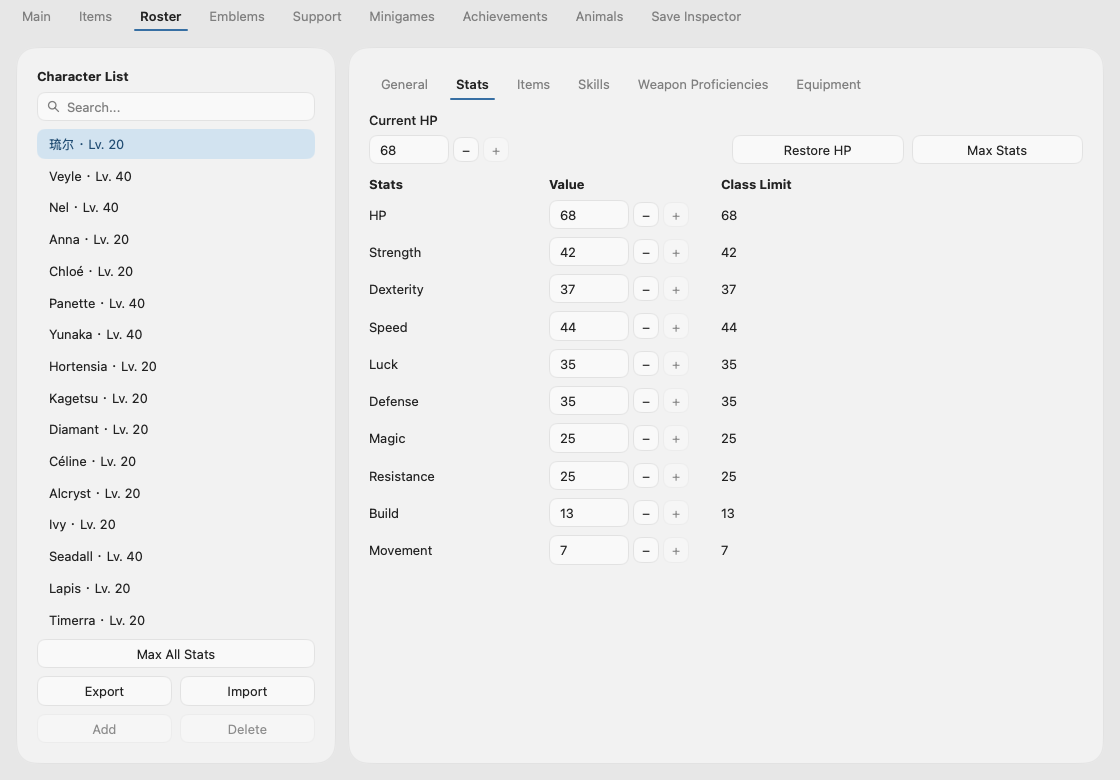
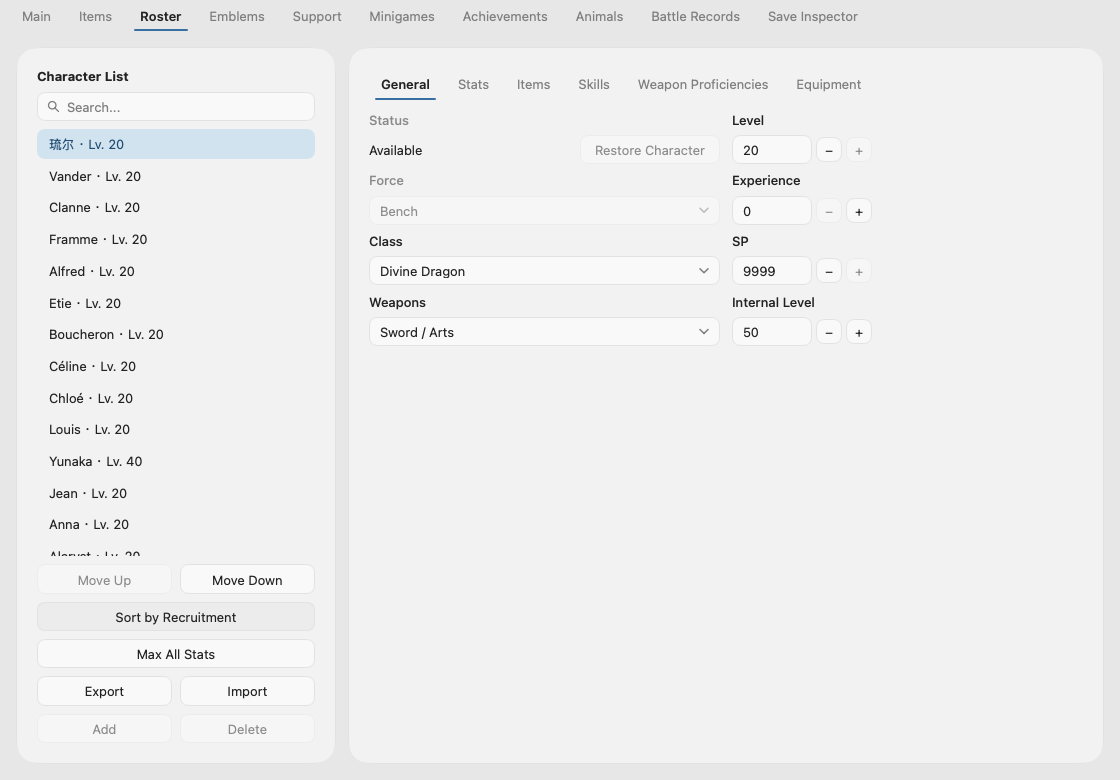
feat(gui): add roster ordering controls and preserve selection

diff --git a/internal/app/roster_order_test.go b/internal/app/roster_order_test.go
@@ -1,0 +1,181 @@
+package app
+
+import (
+	"bytes"
+	"fmt"
+	"image/png"
+	"os"
+	"path/filepath"
+	"slices"
+	"testing"
+
+	"github.com/egoist/mygo/ui"
+	"github.com/jinghaihan/fee-save-editor/internal/catalog"
+	"github.com/jinghaihan/fee-save-editor/internal/save"
+)
+
+func orderedRosterFixture(t *testing.T) *App {
+	t.Helper()
+	a := fixture(t)
+	for _, id := range []string{"PID_クラン", "PID_フラン"} {
+		s, err := a.Save.WithAddedRosterCharacter(id)
+		if err != nil {
+			t.Fatal(err)
+		}
+		a.Save = s
+	}
+	a.Page = slices.Index(pages, "Roster")
+	return a
+}
+
+func TestRosterOrderingKeepsSelectionAndFocusedEdits(t *testing.T) {
+	a := orderedRosterFixture(t)
+	original, err := os.ReadFile(a.Path)
+	if err != nil {
+		t.Fatal(err)
+	}
+	tt := ui.NewTester(a.View, 1120, 780)
+	id := a.selectedID("roster")
+	enterChapterValue(t, tt, a.T("Level"), "9")
+	if err := tt.Click(a.T("MoveDown")); err != nil {
+		t.Fatal(err)
+	}
+	current, found := a.selectedRosterCharacter()
+	if !found || current.Index != 1 || current.Values.Level != 9 || a.selectedID("roster") != id {
+		t.Fatalf("lost selection or focused edit: %+v (%s)", current, a.Status)
+	}
+	if err := tt.Click(a.T("MoveDown")); err != nil {
+		t.Fatal(err)
+	}
+	current, _ = a.selectedRosterCharacter()
+	if current.Index != 2 || a.selectedID("roster") != id {
+		t.Fatal("repeated movement switched character")
+	}
+	enterChapterValue(t, tt, a.T("SP"), "1234")
+	if err := tt.Click(a.T("SortByRecruitment")); err != nil {
+		t.Fatal(err)
+	}
+	current, _ = a.selectedRosterCharacter()
+	if current.Index != 0 || current.Values.Level != 9 || current.Values.SkillPoints != 1234 || a.selectedID("roster") != id {
+		t.Fatalf("sort lost focused input or selected character: %+v (%s)", current, a.Status)
+	}
+	// Edit again after indices changed to catch stale callbacks or drafts.
+	enterChapterValue(t, tt, a.T("SP"), "2345")
+	if err := tt.Click(a.T("Search")); err != nil {
+		t.Fatal(err)
+	}
+	current, _ = a.selectedRosterCharacter()
+	if current.Values.SkillPoints != 2345 {
+		t.Fatalf("post-sort edit failed: %+v pending=%v status=%s", current.Values, a.pendingOrder, a.Status)
+	}
+	output := filepath.Join(t.TempDir(), "edited")
+	if err := a.SaveCopy(output); err != nil {
+		t.Fatal(err)
+	}
+	s, err := save.Load(output)
+	if err != nil {
+		t.Fatal(err)
+	}
+	rows, err := s.Roster()
+	if err != nil || rows[0].PersonHash != current.PersonHash || rows[0].Values.SkillPoints != 2345 {
+		t.Fatal("saved order or character values did not reload")
+	}
+	after, err := os.ReadFile(a.Path)
+	if err != nil || !bytes.Equal(after, original) {
+		t.Fatal("GUI changed source file")
+	}
+}
+
+func TestRosterOrderingWithSearchAndRejectedEdit(t *testing.T) {
+	a := orderedRosterFixture(t)
+	tt := ui.NewTester(a.View, 1120, 780)
+	a.table("roster").Query = "Alear"
+	tt.Frame()
+	id := a.selectedID("roster")
+	if err := tt.Click(a.T("MoveDown")); err != nil {
+		t.Fatal(err)
+	}
+	current, _ := a.selectedRosterCharacter()
+	if current.Index != 1 || len(a.table("roster").Rows) != 1 || a.selectedID("roster") != id {
+		t.Fatal("search changed the move destination or selection")
+	}
+	before := a.Save.Bytes()
+	a.stage("roster/"+id+"/invalid", func(s *save.Save) (*save.Save, error) {
+		return nil, fmt.Errorf("invalid pending value")
+	})
+	moved := a.moveRosterCharacter(current.Index, 0)
+	if moved || !bytes.Equal(before, a.Save.Bytes()) || a.selectedID("roster") != id || a.pending["roster/"+id+"/invalid"] == nil {
+		t.Fatal("rejected edit changed order or discarded pending input")
+	}
+}
+
+func TestRosterOrderControlLayouts(t *testing.T) {
+	for _, loaded := range []bool{false, true} {
+		for _, dark := range []bool{false, true} {
+			for _, size := range [][2]int{{1120, 780}, {860, 600}} {
+				a := New()
+				if loaded {
+					a = orderedRosterFixture(t)
+				}
+				a.Page = slices.Index(pages, "Roster")
+				a.dark = dark
+				tt := ui.NewTesterWith(a.View, size[0], size[1], ui.TesterOptions{Dark: dark})
+				checkBounds(t, tt, size[0], size[1])
+				for _, label := range []string{"MoveUp", "MoveDown", "SortByRecruitment"} {
+					n, ok := tt.Access(a.T(label))
+					if !ok || n.Offscreen || !loaded && !n.Disabled {
+						t.Fatalf("missing, offscreen or enabled unloaded control: %s", label)
+					}
+				}
+			}
+		}
+	}
+}
+
+func TestProvidedRosterOrderScreenshots(t *testing.T) {
+	path, dir := os.Getenv("FEE_TEST_SAVE"), os.Getenv("FEE_ROSTER_SCREENSHOT_DIR")
+	if path == "" || dir == "" {
+		t.Skip("set FEE_TEST_SAVE and FEE_ROSTER_SCREENSHOT_DIR")
+	}
+	before, err := os.ReadFile(path)
+	if err != nil {
+		t.Fatal(err)
+	}
+	for _, dark := range []bool{false, true} {
+		a := New()
+		if err := a.Load(path); err != nil {
+			t.Fatal(err)
+		}
+		a.Language, a.dark, a.Page = "en", dark, slices.Index(pages, "Roster")
+		tt := ui.NewTesterWith(a.View, 1120, 780, ui.TesterOptions{Dark: dark})
+		if err := tt.Click(a.T("SortByRecruitment")); err != nil {
+			t.Fatal(err)
+		}
+		tt.Frame()
+		checkBounds(t, tt, 1120, 780)
+		rows, _ := a.Save.Roster()
+		if len(rows) != 41 || rows[1].PersonHash != catalog.Hash("PID_ヴァンドレ") || rows[8].PersonHash != catalog.Hash("PID_クロエ") {
+			t.Fatal("real save sort did not follow the configured order")
+		}
+		theme := "light"
+		if dark {
+			theme = "dark"
+		}
+		if err := os.MkdirAll(dir, 0755); err != nil {
+			t.Fatal(err)
+		}
+		f, err := os.Create(filepath.Join(dir, "roster-order-"+theme+".png"))
+		if err != nil {
+			t.Fatal(err)
+		}
+		err = png.Encode(f, tt.Image())
+		f.Close()
+		if err != nil {
+			t.Fatal(err)
+		}
+	}
+	after, err := os.ReadFile(path)
+	if err != nil || !bytes.Equal(before, after) {
+		t.Fatal("screenshots changed source save")
+	}
+}

diff --git a/internal/app/roster.go b/internal/app/roster.go
@@ -4,6 +4,7 @@ import (
 	"fmt"
 	"os"
 	"path/filepath"
+	"slices"
 	"sort"
 	"strconv"
 	"strings"
@@ -37,40 +38,35 @@ func (a *App) rosterPage(c *ui.Context) {
 	rows := []row{}
 	for _, r := range roster {
 		if r.Force != save.Enemy && r.Force != save.Temporary {
-			rows = append(rows, row{strconv.Itoa(r.Index), a.characterName(r), fmt.Sprintf("Lv. %d", r.Values.Level)})
+			rows = append(rows, row{rosterRowID(r), a.characterName(r), fmt.Sprintf("Lv. %d", r.Values.Level)})
 		}
 	}
-	a.split(c, "roster", "CharacterList", rows, listHeader{}, func() {
+	a.split(c, "roster", "CharacterList", rows, listHeader{followSelection: true}, func() {
 		ui.Column(c.Key("roster-actions")).Gap(editorAppearance.ControlGap).Children(func() {
+			a.rosterOrderControls(c)
 			a.button(c, "MaximizeAllStats", func() { a.apply(func(s *save.Save) (*save.Save, error) { return s.MaximizeRosterStats(nil) }) })
-			id := a.selectedID("roster")
-			index, _ := strconv.Atoi(id)
+			current, selected := a.selectedRosterCharacter()
+			index := current.Index
 			ui.Row(c).Gap(editorAppearance.ControlGap).Children(func() {
 				for _, export := range []bool{true, false} {
 					key := "Import"
 					if export {
 						key = "Export"
 					}
-					if ui.Button(c, a.T(key)).Grow(1).Basis(0).Disabled(id == "").Clicked() {
+					if ui.Button(c, a.T(key)).Grow(1).Basis(0).Disabled(!selected).Clicked() {
 						a.transferCharacter(index, export)
 					}
 				}
 			})
 			ui.Row(c).Gap(editorAppearance.ControlGap).Children(func() {
 				a.addCharacterButton(c)
-				if ui.Button(c, a.T("Delete")).Grow(1).Basis(0).Disabled(id == "" || a.Save == nil || !a.Save.CanDeleteRosterCharacter(index)).Clicked() {
+				if ui.Button(c, a.T("Delete")).Grow(1).Basis(0).Disabled(!selected || a.Save == nil || !a.Save.CanDeleteRosterCharacter(index)).Clicked() {
 					a.ask("ConfirmDeleteCharacter", func() { a.apply(func(s *save.Save) (*save.Save, error) { return s.WithoutRosterCharacter(index) }) })
 				}
 			})
 		})
 	}, func(id string) {
-		var current save.RosterCharacter
-		index, _ := strconv.Atoi(id)
-		for _, r := range roster {
-			if r.Index == index {
-				current = r
-			}
-		}
+		current, _ := a.rosterCharacter(id)
 		scope := "roster/" + id
 		ui.Column(c.Key(id)).Gap(editorAppearance.SectionGap).Children(func() {
 			tab := a.tabsView(c, "roster-tabs", "General", "Stats", "Items", "Skills", "Proficiencies", "Equipment")
@@ -90,6 +86,48 @@ func (a *App) rosterPage(c *ui.Context) {
 			}
 		})
 	})
+}
+
+func rosterRowID(r save.RosterCharacter) string {
+	return fmt.Sprintf("%d:%08X", r.Force, r.PersonHash)
+}
+
+func (a *App) rosterCharacter(id string) (save.RosterCharacter, bool) {
+	rows, _ := read(a, "roster", a.Save.Roster)
+	for _, r := range rows {
+		if rosterRowID(r) == id {
+			return r, true
+		}
+	}
+	return save.RosterCharacter{}, false
+}
+
+func (a *App) selectedRosterCharacter() (save.RosterCharacter, bool) {
+	return a.rosterCharacter(a.selectedID("roster"))
+}
+
+func (a *App) rosterOrderControls(c *ui.Context) {
+	order, err := read(a, "roster-order", a.Save.RosterOrder)
+	current, selected := a.selectedRosterCharacter()
+	position := -1
+	if selected && err == nil {
+		position = slices.Index(order, current.Index)
+	}
+	ui.Row(c).Gap(editorAppearance.ControlGap).Children(func() {
+		if ui.Button(c, a.T("MoveUp")).Grow(1).Basis(0).Disabled(position <= 0).Clicked() {
+			a.moveRosterCharacter(current.Index, order[position-1])
+		}
+		if ui.Button(c, a.T("MoveDown")).Grow(1).Basis(0).Disabled(position < 0 || position >= len(order)-1).Clicked() {
+			a.moveRosterCharacter(current.Index, order[position+1])
+		}
+	})
+	if ui.Button(c, a.T("SortByRecruitment")).FillWidth().Disabled(err != nil || len(order) < 2).Clicked() {
+		a.perform("roster", func(s *save.Save) (*save.Save, error) { return s.SortRosterByRecruitment() })
+	}
+}
+
+func (a *App) moveRosterCharacter(index, to int) bool {
+	return a.perform("roster", func(s *save.Save) (*save.Save, error) { return s.MoveRosterCharacter(index, to) })
 }
 func (a *App) selectedID(key string) string {
 	s := a.table(key)
@@ -550,7 +588,11 @@ func (a *App) rosterEquipment(c *ui.Context, key string, r save.RosterCharacter)
 }
 func (a *App) transferCharacter(index int, export bool) {
 	source := a.Save
-	scope := fmt.Sprintf("roster/%d", index)
+	rows, err := source.Roster()
+	if err != nil || index < 0 || index >= len(rows) {
+		return
+	}
+	scope := "roster/" + rosterRowID(rows[index])
 	if export {
 		var err error
 		source, err = a.snapshot(scope)

diff --git a/README.md b/README.md
@@ -16,7 +16,7 @@ Edit Fire Emblem Engage saves, including DLC characters, Emblems and Bond Rings.
 - **Main:** Separate cards for game settings, resources, Somniel activities and donations. Edit the protagonist's name, play time in hours/minutes/seconds, money, bond fragments, iron/steel/silver ingots, difficulty, game mode and Sommie's name. Edit or restore remaining strength-training and standard Arena uses without changing scores. All four countries are shown together in the Donations card, with linked level and donated amount fields and one button to maximize all countries.
 - **Minigames:** Separate cards for push-ups, sit-ups, squats, wyvern riding and fishing, with all records directly visible. Edit training high scores for every difficulty, wyvern scores and saved evaluations, and each fish's catch count, best size and size rank. Cards grow with their contents; only the whole page scrolls.
 - **Items:** Switch directly between Convoy, Reclass Items, Materials, Ingredients, Gifts and Key Items tabs. Search the convoy, add, replace or delete items, edit remaining uses and weapon refinement, and restore uses to each item's normal maximum. Assign or clear any of the 20 base-game/DLC Emblem engravings and preview their effects. Assigning an engraving transfers it from its previous weapon, including weapons held by a character. Browse 105 quantity-based items, including Master/Second Seals, DLC Mystic Satchels and Mage Cannons, ingredients, gifts, crystals and key items. Edit their saved counts within the game's limits, or fill all reclass items, materials, ingredients or gifts to their individual maximums. Ingot counts stay linked to Main.
-- **Roster:** Edit character level, experience, SP, internal level and current HP. Restore dead or lost playable characters, move inactive characters between bench, dead and lost pools, and add missing base-game/DLC characters at level 1 in their starting class without advancing recruitment events. Delete unlinked non-protagonist characters after clearing their ordinary carried items; equipped rings are returned first. Missing or unknown classes on inactive playable characters are repaired on opening. Edit displayed stats within the current class limits, or maximize one character or the whole roster across available classes. Change classes using character, gender and weapon-branch restrictions, including exclusive and DLC classes. Manage carried items, engravings, inherited/equipped skills, class skills and weapon proficiencies. Equip, transfer or unequip owned Emblems and Bond Rings. Export character edits and import them into the same character in another compatible save.
+- **Roster:** Move characters up or down in the saved roster, or restore the default recruitment order, including DLC characters. Edit character level, experience, SP, internal level and current HP. Restore dead or lost playable characters, move inactive characters between bench, dead and lost pools, and add missing base-game/DLC characters at level 1 in their starting class without advancing recruitment events. Delete unlinked non-protagonist characters after clearing their ordinary carried items; equipped rings are returned first. Missing or unknown classes on inactive playable characters are repaired on opening. Edit displayed stats within the current class limits, or maximize one character or the whole roster across available classes. Change classes using character, gender and weapon-branch restrictions, including exclusive and DLC classes. Manage carried items, engravings, inherited/equipped skills, class skills and weapon proficiencies. Equip, transfer or unequip owned Emblems and Bond Rings. Export character edits and import them into the same character in another compatible save.
 - **Emblems:** Switch between Bonds and Bond Rings tabs. Add or remove normal base-game Emblems and DLC Bracelets while retaining existing bond progress; removal first unequips the ring and excludes story-reserved or Engage+ equipment. Edit character bond levels and linked experience, or maximize one or all character bonds for the selected Emblem. Edit dirtiness, clean the selected Emblem Ring or Bracelet, or clean all owned rings and bracelets. Manage Bond Ring quantities within the shared 99-copy limit, preview stat bonuses and S-rank skills, fill missing S-rank rings, and meld unequipped duplicates using the game's ring and bond-fragment costs. Equipped copies are not consumed.
 - **Support:** Search character pairs, edit their support rank and linked points, or maximize one or every existing pair. Rank choices follow each pair's thresholds; an existing Pact partner is preserved.
 - **Battle Records:** Browse chapter results in their saved order, including paralogues and DLC. Edit the MVP, recorded class, Emblem, turn count and clear time. Move a complete result up or down, then save the revised order.
